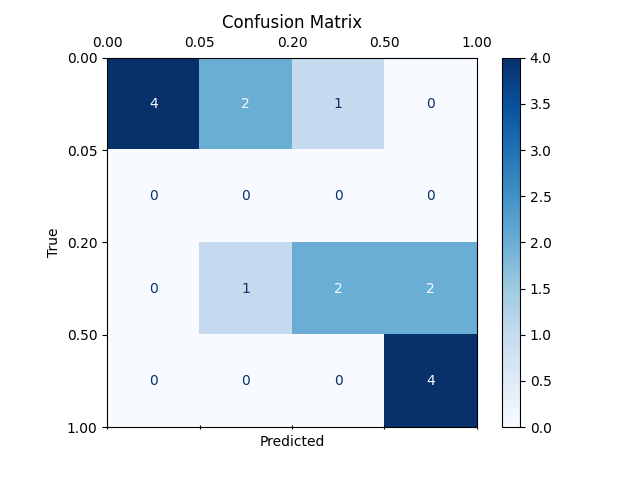
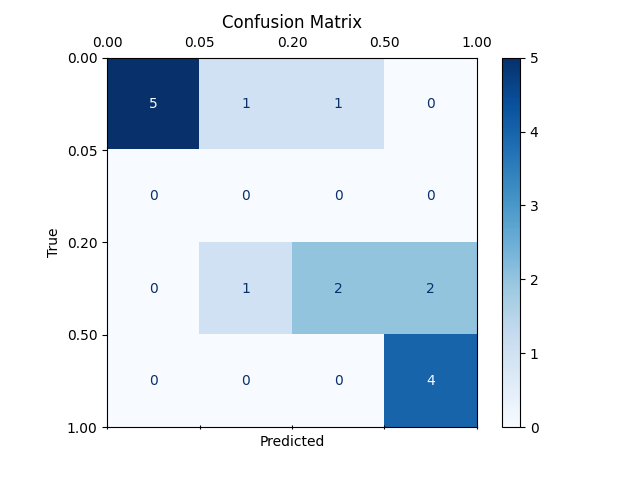
meeting todos

diff --git a/model.py b/model.py
@@ -32,7 +32,7 @@ file = './data/16_populations.pickle'
 x, y = data.load_data(file)
 
 # Get train and test populations
-x_train, y_train, x_test, y_test = data.subsample_populations(x, y, split=0.5, combine_train=True, combine_test=False, max_combs=2**13)
+x_train, y_train, x_test, y_test = data.subsample_populations(x, y, split=0.8, combine_train=True, combine_test=False, max_combs=2**13)
 #x_train, y_train, x_test, y_test = data.get_train_test_split(x, y, split=0.625, combine_train=True, combine_test=False)
 
 # Get statistical moment features

diff --git a/data.py b/data.py
@@ -5,7 +5,7 @@ import pickle
 import scipy
 import matplotlib.pyplot as plt
 
-np.random.seed(42)
+np.random.seed(40)
 
 # Read in data from a csv file and return the populations and the activation rates
 def get_data(file):
